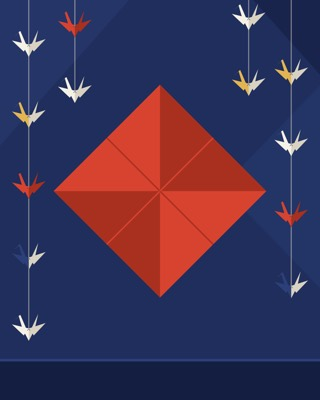
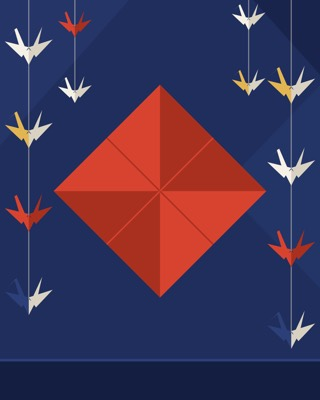
Paper crane: larger cranes on the outer strings, head folded before the reveal, a smaller lift
On the shelf the closed sheet said little: the cranes on the two outer strings
are larger, so the still reads as cranes. The neck swings a little earlier and
the head has folded by the time the amount is shown. The finished crane lifts
less, keeping its head clear of what the page shows above it.

diff --git a/src/wrappers/crane.ts b/src/wrappers/crane.ts
@@ -18,8 +18,8 @@ import { scaled, together, tune } from './tune';
  */
 
 const PARTS = ['body', 'wing-l', 'wing-r', 'neck', 'head', 'tail'] as const;
-/** How far the finished crane lifts. */
-const LIFT = -6;
+/** How far the finished crane lifts: little, so that its head keeps clear of what the page shows above it. */
+const LIFT = -2;
 
 const open: Step[] = [
     // 1. The sheet folds in half: the upper half comes down (a scale through zero), showing its white side.
@@ -31,19 +31,19 @@ const open: Step[] = [
     { kind: 'move', layer: 'sheet-in', at: 1000, dur: 120, to: { opacity: 0 } },
     { kind: 'move', layer: 'sheet-low', at: 1000, dur: 120, to: { opacity: 0 } },
     // 3. From the spine: the body, then the wings swing down and out, then neck and tail swing up, each
-    //    about its joint; last the tip of the neck folds down into the head.
+    //    about its joint; last the tip of the neck folds down into the head, done before the amount is shown.
     { kind: 'move', layer: 'body', at: 960, dur: 80, to: { opacity: 1 } },
     { kind: 'move', layer: 'body', at: 960, dur: 380, ease: 'back', to: { sx: 1 } },
     { kind: 'move', layer: 'wing-l', at: 1140, dur: 60, to: { opacity: 1 } },
     { kind: 'move', layer: 'wing-l', at: 1140, dur: 520, ease: 'back', to: { sx: 1, sy: 1, turn: 0 } },
     { kind: 'move', layer: 'wing-r', at: 1220, dur: 60, to: { opacity: 1 } },
     { kind: 'move', layer: 'wing-r', at: 1220, dur: 520, ease: 'back', to: { sx: 1, sy: 1, turn: 0 } },
-    { kind: 'move', layer: 'neck', at: 1360, dur: 60, to: { opacity: 1 } },
-    { kind: 'move', layer: 'neck', at: 1360, dur: 440, ease: 'back', to: { sy: 1, turn: 0 } },
+    { kind: 'move', layer: 'neck', at: 1300, dur: 60, to: { opacity: 1 } },
+    { kind: 'move', layer: 'neck', at: 1300, dur: 400, ease: 'back', to: { sy: 1, turn: 0 } },
     { kind: 'move', layer: 'tail', at: 1440, dur: 60, to: { opacity: 1 } },
     { kind: 'move', layer: 'tail', at: 1440, dur: 440, ease: 'back', to: { sy: 1, turn: 0 } },
-    { kind: 'move', layer: 'head', at: 1800, dur: 40, to: { opacity: 1 } },
-    { kind: 'move', layer: 'head', at: 1800, dur: 220, ease: 'out', to: { turn: 0 } },
+    { kind: 'move', layer: 'head', at: 1680, dur: 40, to: { opacity: 1 } },
+    { kind: 'move', layer: 'head', at: 1680, dur: 200, ease: 'out', to: { turn: 0 } },
     { kind: 'scatter', layer: 'fleck', at: 1300, dur: 1100, count: 12, spread: 130, fall: 70 },
     // 4. The crane lifts; three more pass further off.
     ...PARTS.map((layer): Step => ({ kind: 'move', layer, at: 2000, dur: 900, ease: 'inout', to: { y: LIFT } })),
@@ -63,7 +63,7 @@ const idle: IdleStep[] = [
 
 const afterglow: IdleStep[] = [
     ...hang,
-    ...PARTS.map((layer): IdleStep => ({ layer, field: 'y', amp: 4, period: 5200 })),
+    ...PARTS.map((layer): IdleStep => ({ layer, field: 'y', amp: 3, period: 5200 })),
     { layer: 'wing-l', field: 'turn', amp: 4, period: 2600 },
     { layer: 'wing-r', field: 'turn', amp: 4, period: 2600, phase: 0.5 },
     { layer: 'flock', field: 'y', amp: 3, period: 4400, phase: 0.3 },
